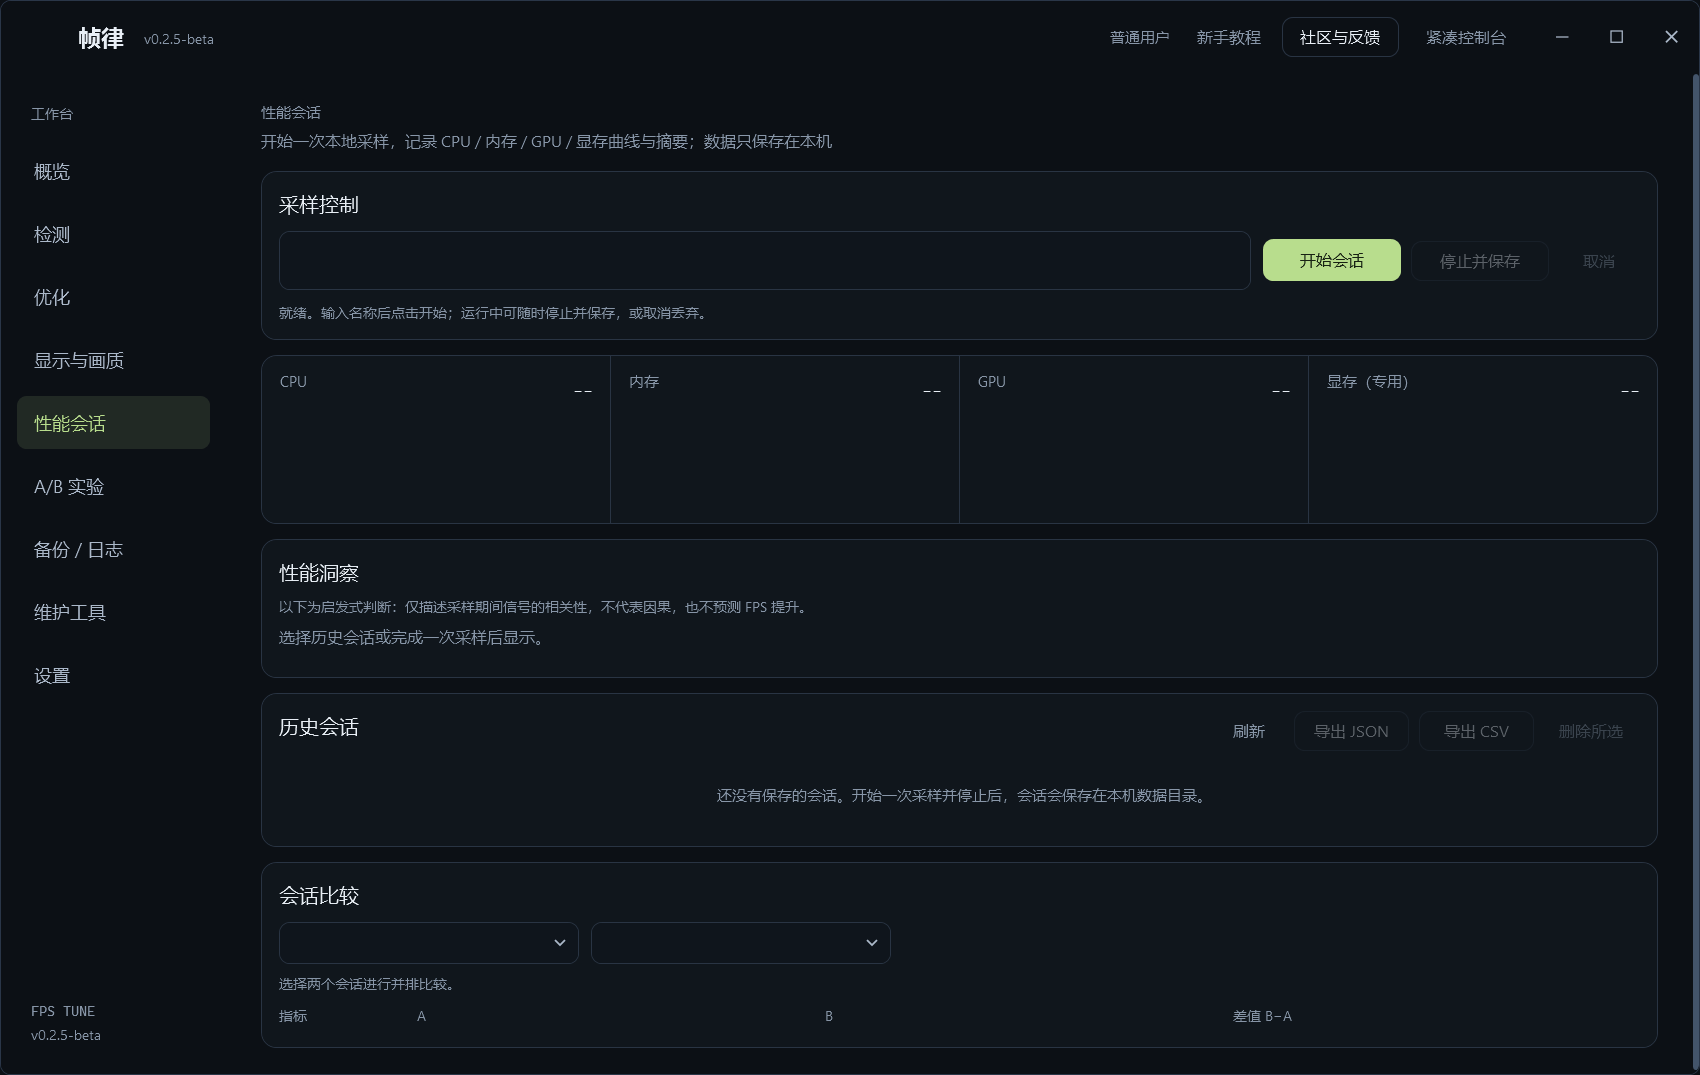
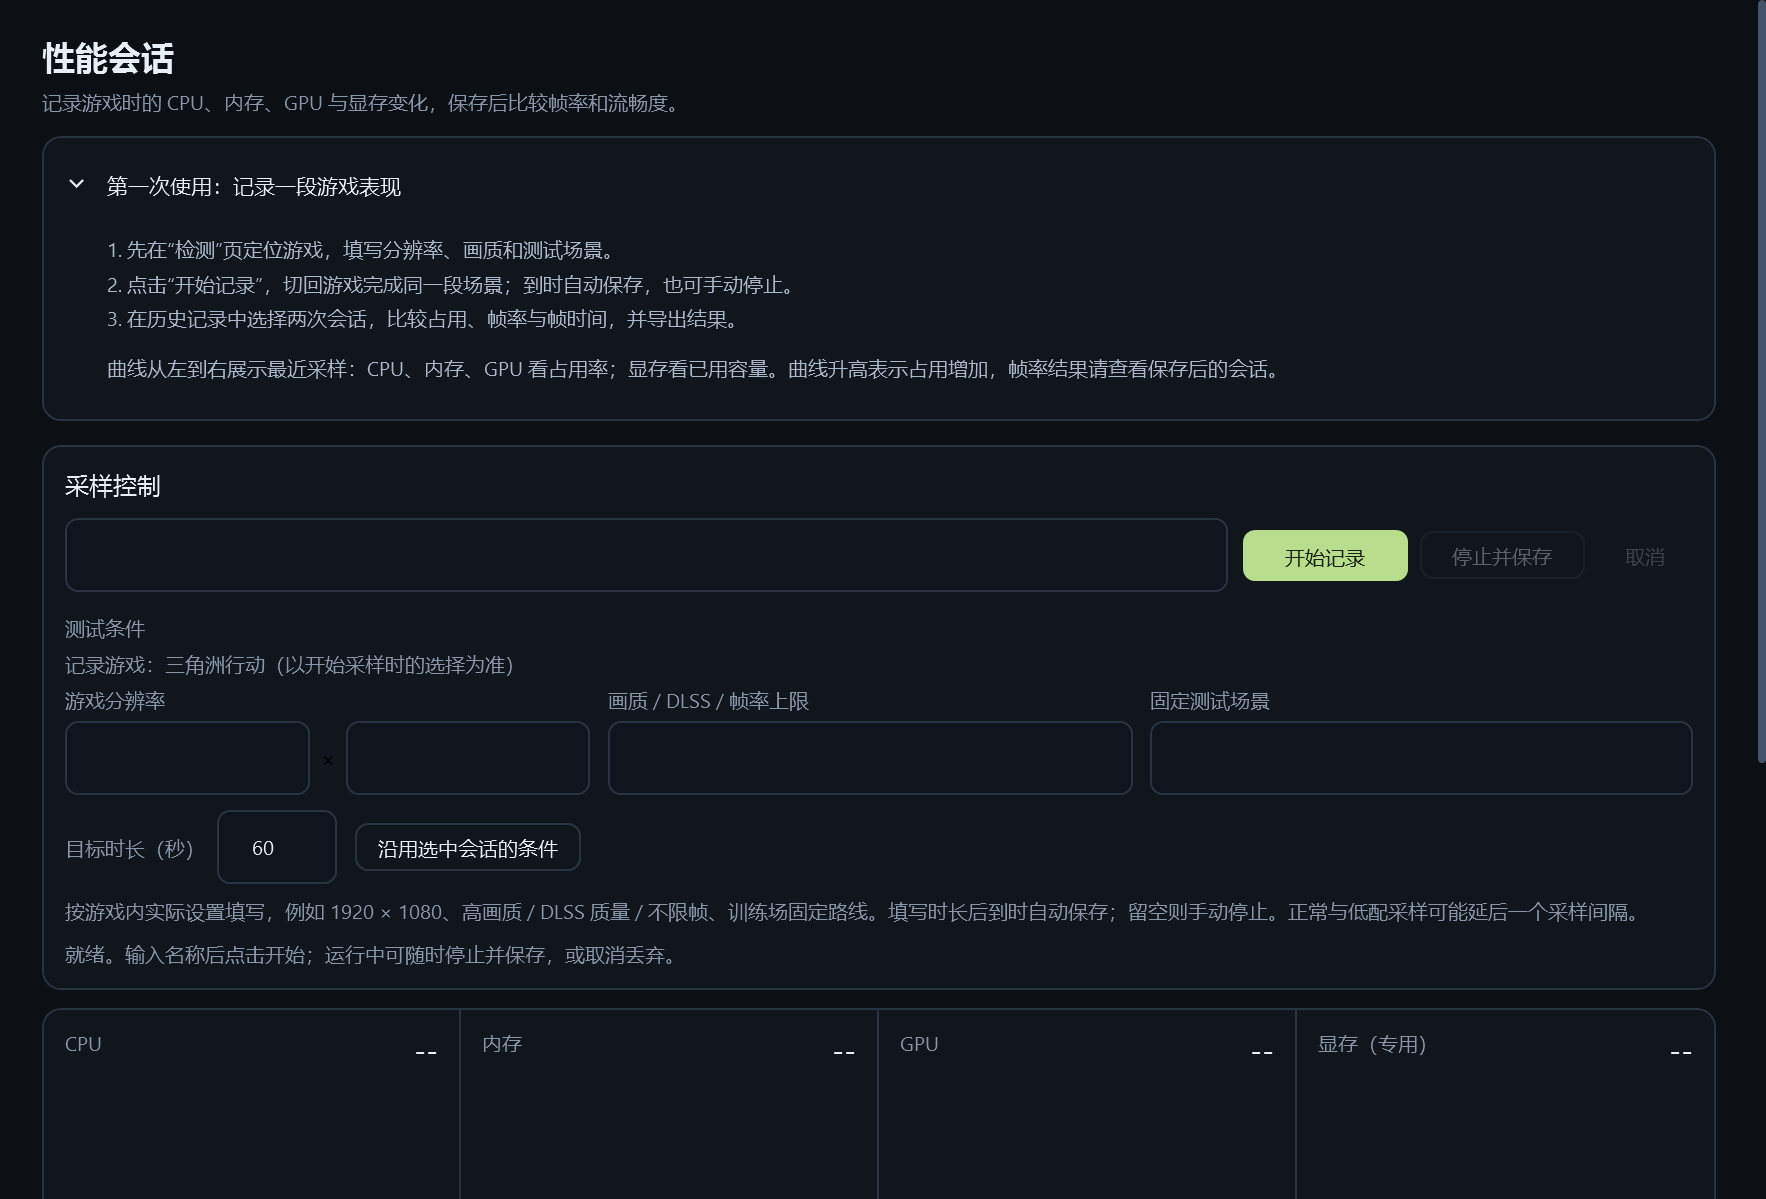
整理 0.3.0 正式发布说明并更新实际界面配图
用户已确认发布；README 聚焦产品与使用，更新细节集中到 CHANGELOG，下载链接统一指向正式版并优先推荐 EXE。

核对 9 张原生界面截图、README 图片路径与正式版链接，git diff --check 通过；软件功能沿用已通过验收的源码。

diff --git a/README.en.md b/README.en.md
@@ -1,51 +1,18 @@
 # FPS Tune · fps-tune
 
-[简体中文](README.md) · [English](README.en.md) · [Official downloads](https://github.com/jidekaixin2dian/fps-tune/releases/tag/v0.3.0-beta)
+[简体中文](README.md) · [English](README.en.md) · [Official downloads](https://github.com/jidekaixin2dian/fps-tune/releases/tag/v0.3.0)
 
 Windows system tuning and performance measurement: detect → review → apply → measure → restore.
 Available through a desktop interface and command-line tools.
 
-## v0.3.0-beta: a more consistent interface and practical controls
-
-A larger update; upgrading is recommended. Download the EXE installer first.
-
-- Consistent typography, searchable detection categories and a single status marker per check.
-- Eight GPU device-name presets including GTX 750 Ti, with a preview and original-name restoration.
-- System standby-cache cleanup, per-game frame caps, AC Wi-Fi performance and disk idle controls.
-- Beginner guides for performance sessions and A/B experiments; separate community and update prompts.
-
-## Previous updates
-
-### 0.2.8: measurement, display and recovery improvements
-
-- **Timed performance sessions**: record game resolution, quality / DLSS / frame cap and a fixed scene. Enter a duration to save automatically, or leave it blank to stop manually. Reuse past conditions and include them in JSON / CSV exports.
-- **Clearer comparisons**: compare average FPS, 1% low and P99 frame time, with explicit notices when games, scenes, quality, resolution or sampling conditions are missing or different. Conditions are user entries; a single difference does not establish an optimization benefit. Real FPS still requires official PresentMon.
-- **Multiple displays**: select the target for digital vibrance and ICC associations, preserve originals separately and restore each screen independently. Changing the primary display does not silently retarget a write; disconnected targets are disabled. ICC affects color-managed applications and some games ignore it. Configurations that cannot be switched safely, including system-level associations, remain unavailable with an explanation.
-- **Diagnostics and update recovery**: export scrubbed DLSS / 3D diagnostics with privileges, driver version, operation stage and before/after values. Protect settings and restore records before updating, then offer retry and rollback when the previous installer is available.
-
-### 0.2.4: a major update
-
-0.2.4 brings substantial changes across the interface, tuning options and recovery workflow:
-
-- **Redesigned interface**: studio and compact layouts, six settings categories, custom wallpaper, and inline tutorial, community and update cards.
-- **Expanded tuning**: multiple-game path detection, 11 ICC presets, AC CPU controls and shader-cache preview and cleanup.
-- **Everyday maintenance**: drive space, process memory snapshots, storage cleanup, startup apps and troubleshooting shortcuts.
-- **Recovery and updates**: improved backups for system, driver and color settings, optional updates with download verification, and complete license texts in the app and packages.
-
-**0.2.5 refines this major update** with consistent small-text weights and item-title sizes, theme transitions and a branded installer that always lets you choose the destination.
-
-**0.2.6 fixes DLSS preset saving and privilege messages**: elevated processes no longer repeatedly offer elevation, and saving handles a missing NVIDIA driver database directory. Model selection writes only the preset. Saving and restoration reload the driver settings to verify the result, retaining the original backup on failure. Applying K should report that it was saved and independently verified; restart the game and enable DLSS to confirm its in-game effect.
-
-**0.2.7 further fixes DLSS K and driver 3D apply failures**: when an old backup differs from the current driver values, it preserves the old record and backs up the current values before applying. Driver 3D choices are read on the UI thread and saved in one batch. Refreshes retain failure details and the preset selected for retry. Saving reloads the driver settings to verify the result, and restoration still checks external changes. The reporting user has confirmed success with this fix.
-
 ## Versions and downloads
 
-Current version: **[v0.3.0-beta](https://github.com/jidekaixin2dian/fps-tune/releases/tag/v0.3.0-beta)**. The 1.x line is unmaintained.
+Current version: **[v0.3.0](https://github.com/jidekaixin2dian/fps-tune/releases/tag/v0.3.0)**. The 1.x line is unmaintained.
 
-Download from this repository's [Releases](https://github.com/jidekaixin2dian/fps-tune/releases/tag/v0.3.0-beta).
+Download from this repository's [Releases](https://github.com/jidekaixin2dian/fps-tune/releases/tag/v0.3.0).
 The application targets Windows 10/11 x64; your OS version must satisfy .NET 10 requirements.
 
-**Download the [EXE installer, FpsTune-Setup-0.3.0.exe](https://github.com/jidekaixin2dian/fps-tune/releases/download/v0.3.0-beta/FpsTune-Setup-0.3.0.exe), first.** It includes the .NET runtime and guides you through installation. The portable ZIP is for users who already have the required runtime and want to run without installation.
+**Download the [EXE installer, FpsTune-Setup-0.3.0.exe](https://github.com/jidekaixin2dian/fps-tune/releases/download/v0.3.0/FpsTune-Setup-0.3.0.exe), first.** It includes the .NET runtime and guides you through installation. The portable ZIP is for users who already have the required runtime and want to run without installation.
 
 | File | Purpose |
 |---|---|
@@ -53,35 +20,48 @@ The application targets Windows 10/11 x64; your OS version must satisfy .NET 10 
 | `FpsTune-Portable-<version>.zip` | Portable application requiring [.NET 10 Windows Desktop Runtime](https://dotnet.microsoft.com/download/dotnet/10.0) |
 | `SHA256SUMS-v<version>.txt` | Compare with `Get-FileHash -Algorithm SHA256 <file>` |
 
-Checksum manifest for this release: [SHA256SUMS-v0.3.0.txt](https://github.com/jidekaixin2dian/fps-tune/releases/download/v0.3.0-beta/SHA256SUMS-v0.3.0.txt).
+Checksum manifest for this release: [SHA256SUMS-v0.3.0.txt](https://github.com/jidekaixin2dian/fps-tune/releases/download/v0.3.0/SHA256SUMS-v0.3.0.txt).
 
 The application is currently unsigned, so Windows may show an unknown publisher. Verify the source and checksum before running. A checksum verifies matching content; it does not replace a publisher signature.
-From 0.2.4, portable and installer packages include complete LICENSE and third-party notices. Full texts are also available under Settings → About → Open-source licenses and CLI `-License`.
+Portable and installer packages include complete LICENSE and third-party notices. Full texts are also available under Settings → About → Open-source licenses and CLI `-License`.
 
-The branded installer lets you choose a destination, including during reinstallation; your existing directory remains the default. In-app updates show release notes and download progress, then open the installer after verification.
+The branded installer lets you choose a destination, including during reinstallation; your existing directory remains the default. Update prompts show the main changes and link to the official release download page.
 
 ## Interface preview
 
-| Studio | Settings |
+| Workspace | Pre-game preparation |
 |---|---|
-| ![Studio](assets/screenshots/01-overview.png) | ![Settings](assets/screenshots/06-settings.png) |
+| ![Workspace](assets/screenshots/01-overview.png) | ![Preparation settings](assets/screenshots/08-preparation.png) |
 
-| Maintenance | Detection |
+| Display and quality | Detection |
 |---|---|
-| ![Maintenance](assets/screenshots/07-maintenance.png) | ![Detection](assets/screenshots/02-detect.png) |
+| ![Display settings](assets/screenshots/09-display.png) | ![Detection](assets/screenshots/02-detect.png) |
+
+<details>
+<summary>More: optimization, performance recording, A/B, settings and maintenance</summary>
+
+![Optimization](assets/screenshots/03-optimize.png)
+![Performance recording](assets/screenshots/04-session.png)
+![A/B experiment](assets/screenshots/05-ab-experiment.png)
+![Settings](assets/screenshots/06-settings.png)
+![Maintenance](assets/screenshots/07-maintenance.png)
+
+</details>
 
 ## Current features
 
 - **Studio and compact console layouts**, dark/light themes with smooth transitions, shared selection controls and a local image as the application wallpaper. Low-spec mode or disabled Windows animations switches themes immediately.
-- **Detection and system tuning**: 40 catalog items with current state, privileges, restart flags and side effects. Memory compression control is unavailable, with legacy restoration retained. Balanced includes 16 items; safe-only includes 4 without elevation. New AC CPU energy preference and maximum-state controls start unchecked.
+- **Detection and system tuning**: 39 available items with current state, privileges, restart requirements and side effects. Balanced selects 16 items, safe-only selects 4, and Custom lets you choose.
+- **Pre-game preparation**: save system standby-memory cleanup, ICC, vibrance and display choices as a one-click routine with individual results.
+- **Frame caps**: set NVIDIA foreground and background frame limits per game and restore those settings separately.
 - **Multiple games**: recognizes Delta Force, CS2, VALORANT, APEX, PUBG, Call of Duty, Fortnite, Warframe and other listed clients; scans shared libraries and accepts a manually chosen EXE. Path detection does not establish performance or anti-cheat compatibility for every title.
 - **Display and quality**: per-game NVIDIA DRS / DLSS settings, digital vibrance for a selected display, 11 generated ICC presets or a custom `.icc` / `.icm`, and restoration of the original association. ICC works in color-managed applications; some games ignore it.
-- **GPU name experiment**: sets the NVIDIA Windows `DeviceDesc` to GTX 1050 Ti and backs up the original description. It does not change DXGI hardware IDs, driver capabilities or GPU performance. Whether a game uses that name needs measurement.
+- **GPU device names**: preview eight presets including GTX 750 Ti and GTX 1050 Ti, then restore the original description when needed. This changes the Windows device description while preserving hardware capabilities.
 - **Organized settings**: appearance, wallpaper, startup and notifications, games and profiles, data and permissions, and About. Settings save automatically; wallpaper has a rounded preview and compact opacity slider.
 - **Everyday maintenance**: fixed-drive free space and the top 8 process working sets, refreshed on demand. Open Windows storage cleanup, installed apps, Task Manager, startup apps, reliability history, Resource Monitor, network and update settings. Snapshots stay in the current page and are not uploaded.
 - **Cache maintenance**: preview the current user's DirectX / NVIDIA shader caches and confirm cleanup. Busy or changed files are skipped. Deleted cache files cannot be restored; regeneration may cause temporary stutter.
 - **Performance sessions and A/B**: local CPU, RAM, GPU, VRAM and frame-time recording, exports and comparisons. Real FPS capture requires official PresentMon.
-- **Inline guidance**: tutorial, community feedback and optional update cards appear in the main window's lower-right corner and can be collapsed or closed.
+- **Guidance and feedback**: step-by-step performance recording and A/B guides, separate QQ community and update prompts, and a persistent option to dismiss community reminders.
 - **Backups and recovery**: one inventory covers system settings, game driver profiles, ICC and vibrance, with individual results and failures.
 
 The application adjusts system or driver configuration without modifying game files or injecting into game processes. Results depend on hardware, drivers, games and scenes; compare on the same machine.
@@ -132,18 +112,20 @@ This is a rule-based decision, not proof of statistical significance. Simulated 
 ## Updates and privacy
 
 Startup checks this repository's GitHub Releases by default. Disable it in Settings or check manually.
-New versions show an inline card; you control downloading and installing. Updates are optional, with no automatic installation.
+New-version prompts show the main changes and open the official download page. Choose the EXE installer first; updating remains optional.
 A third-party file host is unnecessary. Downloads use official HTTPS release assets and the same release's SHA256 manifest.
 
 Hardware readings, game paths, backups, sessions and logs stay under `%LocalAppData%\FpsTune` and are not automatically uploaded.
 Update requests disclose the network connection's IP and a `FpsTune` User-Agent to GitHub, without hardware, game lists or logs. GitHub and QQ process visits and community information under their own service rules.
 Diagnostic exports are manual and may contain device, setting and operation records; inspect them before sharing. Preserve needed backups before deleting local records.
 
+Detailed version changes are in [CHANGELOG.md](CHANGELOG.md).
+
 ## Community and feedback
 
 Join the **FPS 帧律 developer community** to discuss usage, report issues, suggest features and discuss the developer's other open-source projects.
 
-- **QQ group: 659528489**
+- **QQ group: 659528489** · [Join the group](https://qm.qq.com/q/yIjLxOFGCG)
 - **Bugs and feature requests:** [GitHub Issues](https://github.com/jidekaixin2dian/fps-tune/issues)
 
 Use, learning and sharing are welcome. Follow the open-source license when redistributing and, where practical, credit the original project.

diff --git a/CHANGELOG.md b/CHANGELOG.md
@@ -1,8 +1,8 @@
 # 更新日志
 
-此文件记录功能、行为和兼容性变化。版本号采用 `主版本.次版本.修订版本`；后续正式发布不再带 `beta` 后缀，并设为 GitHub Latest。未发布内容可能继续调整。
+此文件记录功能、行为和兼容性变化。版本号采用 `主版本.次版本.修订版本`。
 
-## [Unreleased] — 0.3.0
+## [0.3.0] — 2026-10-16
 
 ### Added
 
@@ -44,13 +44,11 @@
 - 修复显卡列表显示记录对象内部字段、异步刷新覆盖选择及操作期间仍可切换目标的问题。
 - 修复检测结果重复显示状态圆点、A/B 导航选中前后字重变化、复选框勾形裁切及默认虚线框问题。
 - 修复驱动配置跨线程访问、DLSS 保存失败后的反馈与预设读回确认问题。
-- 更新恢复集成测试使用子进程生命周期门控，等待精确目标进程退出后清理测试文件。
 
 ### Notes
 
 - 内存整理处理待机缓存，不关闭 Windows 内存压缩或结束用户程序。缓存减少、可用内存快照和实际游戏表现是不同指标。
 - 新增系统和驱动操作沿用原值备份、失败反馈与恢复保护。具体硬件支持以目标机器的原生查询和写后核验结果为准。
-- 0.3.0 正在本地验收，待确认后发布；原 `v0.3.0-beta` 已转回草稿。
 
 ## [0.2.8-beta] — 2026-10-14
 
